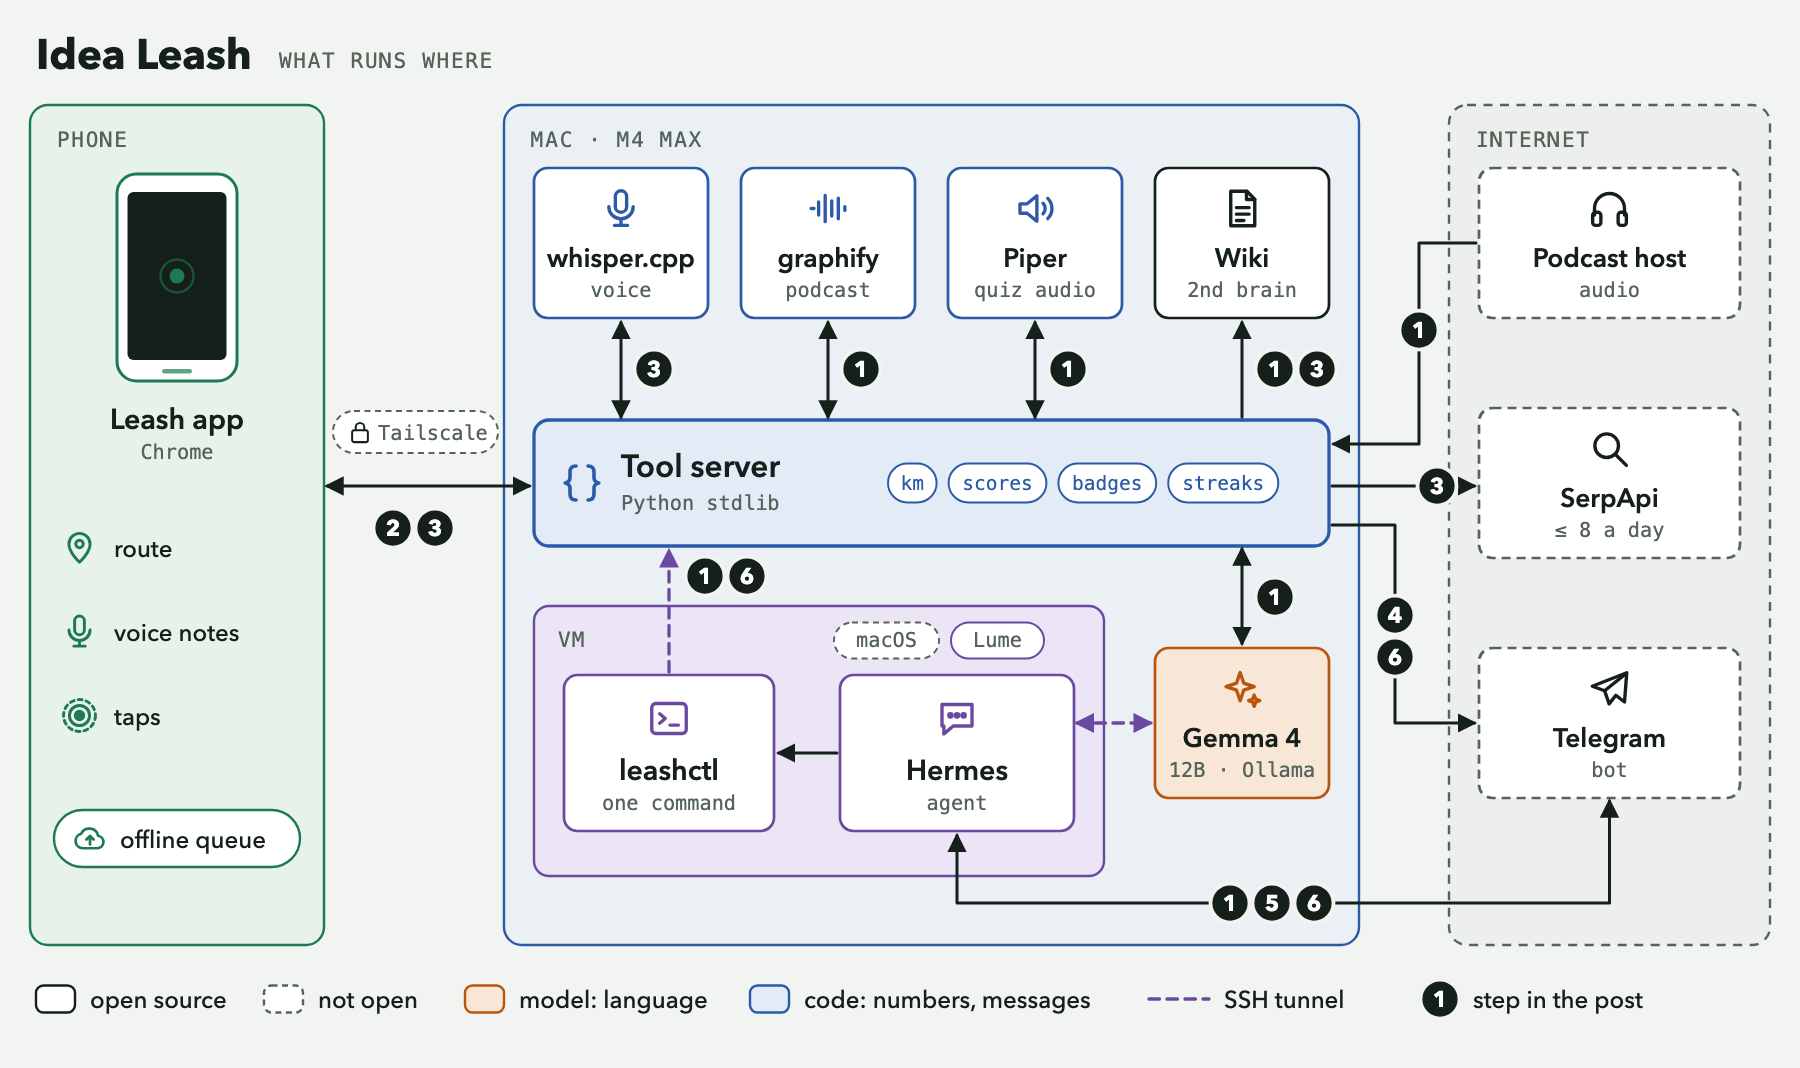
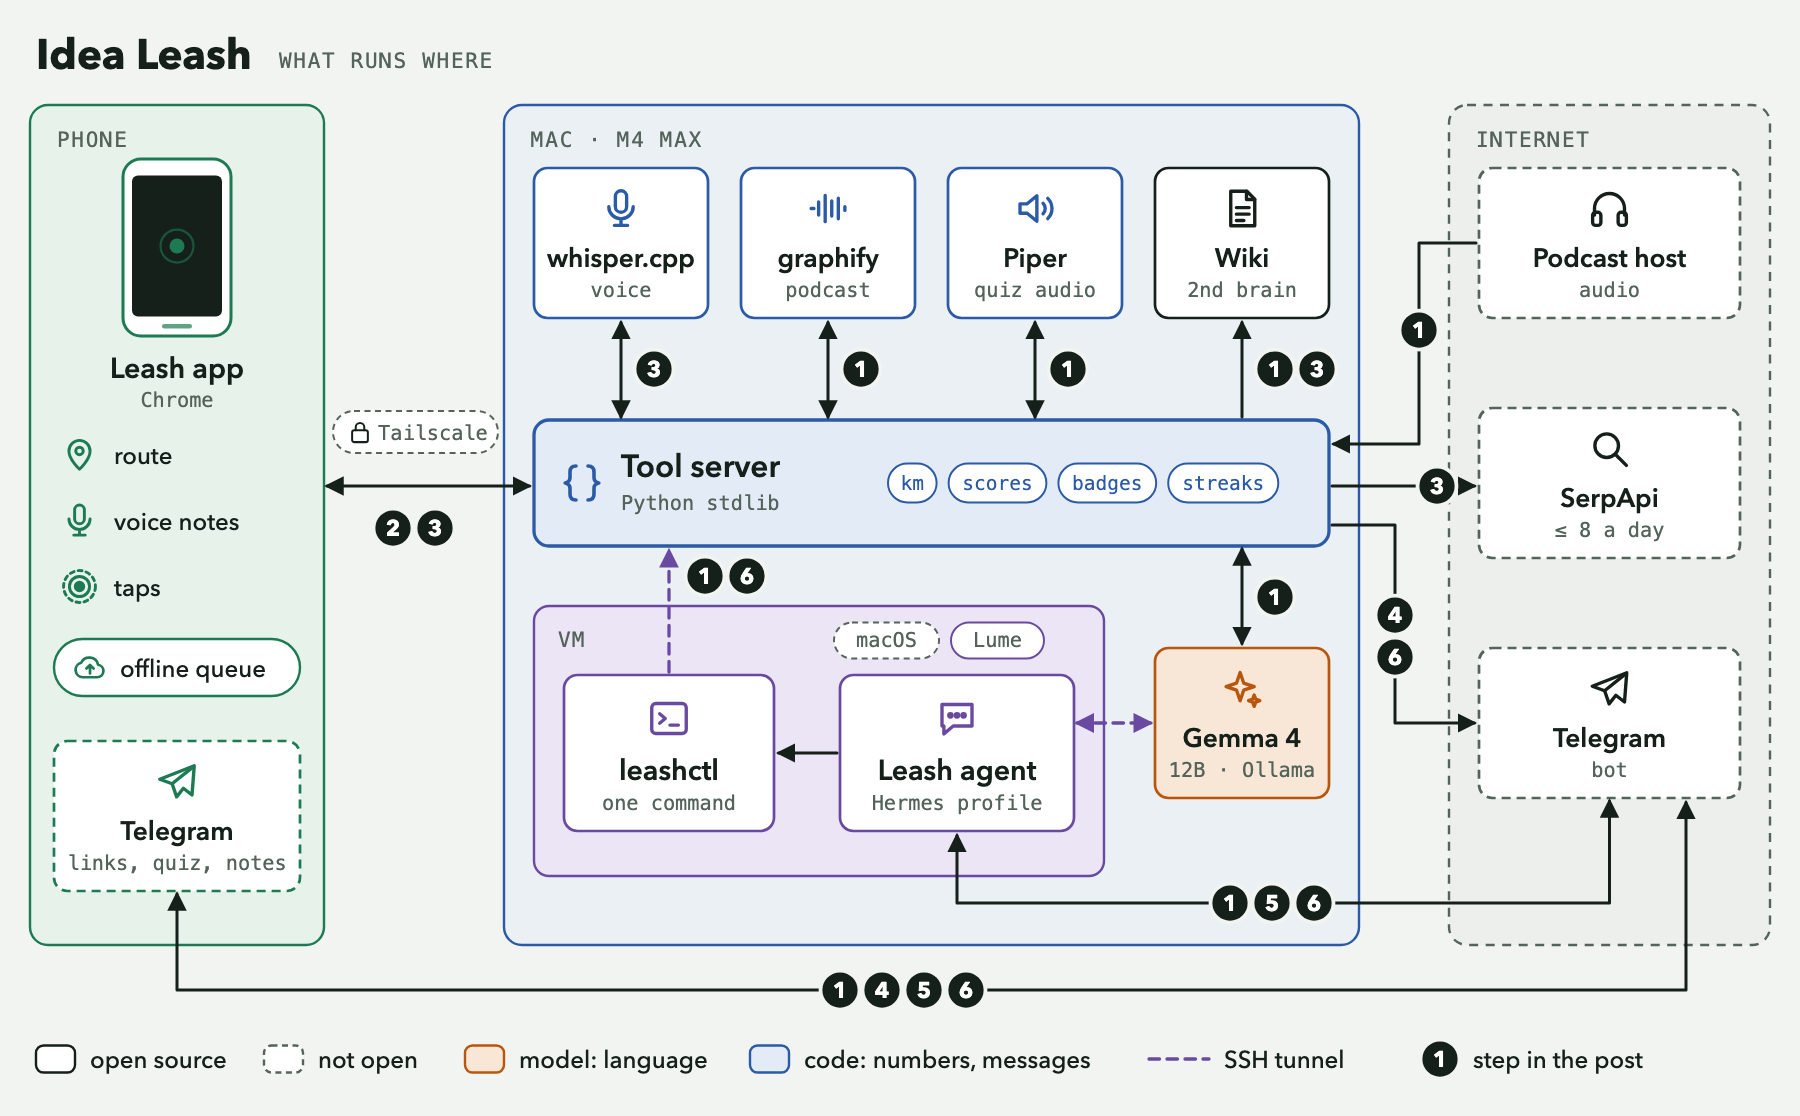
docs(challenge-02): phone shows Leash app and Telegram; add ambient agent, OKF wiki and skills to the post

diff --git a/challenges/02-week1-touch-grass/SUBMISSION.md b/challenges/02-week1-touch-grass/SUBMISSION.md
@@ -12,7 +12,9 @@ tags: devchallenge, hf26challenge
 
 Idea Leash is how I take a break from work and touch grass. I go out with my dog, or for an evening walk with a podcast in my ears, and I wanted those walks to leave something behind: what I heard, the ideas that show up while I'm moving, and a small reward for going out. It is for anyone who walks with a podcast and wants to keep some of it.
 
-The AI runs on open models on my Mac: Gemma 4 12B through Ollama, the Hermes agent, and whisper.cpp for speech. The phone only captures the route, my voice and a few taps.
+The AI runs on open models on my Mac: Gemma 4 12B through Ollama, the Hermes agent, and whisper.cpp for speech. On the phone I use two apps. The Leash app records the route and my voice, and Telegram is where I talk to the Leash agent.
+
+The Leash agent is an ambient agent: it speaks first. When a podcast is ready, when a walk has been saved and when I answer a quiz question, the Mac messages me in Telegram without being asked, and I reply there. It can also bring back one concept and one older note from my wiki when I ask. I have not built scheduled nudges, so it speaks when something happened, not on a timer.
 
 The loop:
 
@@ -106,7 +108,22 @@ The stack:
 | Phone to Mac link | Tailscale HTTPS, tailnet only | not open | phone and Mac |
 | The second brain | an OKF markdown wiki | plain files I own | my Mac |
 
-The wiki format comes from my repo's `okf-wiki` skill, committed before the challenge window opened (prior work).
+### The second brain is an OKF wiki
+
+OKF is Google's Open Knowledge Format: a folder of markdown files with YAML front matter, where the one hard rule is that every page declares a `type`. An agent reads each source once and folds it into linked pages, with an index and an append-only log, so the wiki grows instead of searching the raw files again. It is not a database and has no embeddings, so anything that can read a file can read it.
+
+In Idea Leash, each episode becomes a source page and a few concept pages that keep a verbatim quote, and each voice idea becomes a note page linked to the concepts it shares words with. The procedure comes from my repo's `okf-wiki` skill, committed before the challenge window opened (prior work), and the Mac's ingest code writes the same layout.
+
+### Two agent skills
+
+The agent's behavior lives in two skills in the repo's `skills/` folder. A skill is a `SKILL.md` of instructions plus scripts the agent can run.
+
+- `podcast-quiz` turns a transcript into four multiple choice questions and one field-link question, and grades spoken answers afterwards. Its scripts check every question's quote against the transcript, the spoken length and the answer-length bias, and shuffle the answer positions.
+- `leash-tools` tells the agent how to reach the Mac with one command, `leashctl`: `ingest`, `next`, `answer`, `idea`, `search`, `resurface`, `walks` and `audio`.
+
+The method was the skill-creator workflow: write the skill, run it on three test transcripts with the local Gemma model, read the failures, change the skill, run again. It took four rounds. The checking script did more than the prose: with it the skill passed 27 of 27 checks, against 20 of 27 for a plain prompt.
+
+Telegram taught me the second lesson. The 12B model did not follow a paragraph in a skill and wrote a question as plain text instead of calling the buttons tool. So the instruction moved into the tool's reply, in an `action` field the agent only has to follow. `agent/setup-profile.sh` installs the Hermes profile with both skills.
 
 launchd services on the Mac keep the VM, the tool server and the tunnel running, and the Hermes gateway is a launchd service inside the VM. When I killed the server and the tunnel by hand, both were back within 25 seconds.
 
